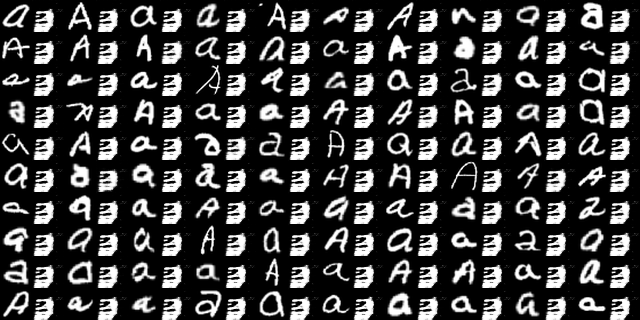
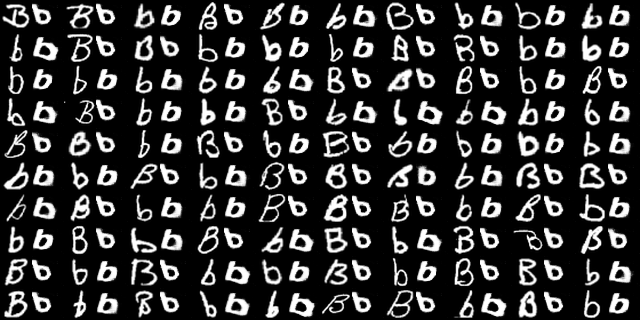
new results

diff --git a/model.py b/model.py
@@ -1,5 +1,5 @@
 import os
-os.environ["CUDA_VISIBLE_DEVICES"]="2,3"
+os.environ["CUDA_VISIBLE_DEVICES"]="0,1"
 import tensorflow as tf
 import tensorflow.contrib.slim as slim
 import numpy as np
@@ -268,8 +268,8 @@ class Solver(object):
             onehot[idx, :, :, cls_idx] = 1
 
         if len(self.cls) > 1:
-            for i, w in zip(self.cls, self.cls_weight):
-                onehot[:,:,:,i][np.where(onehot[:,:,:,i]==1)] = w
+            for idx in xrange(len(self.cls)):
+                onehot[:,:,:,idx][np.where(onehot[:,:,:,idx]==1)] = self.cls_weight[idx]
 
         source_fills = onehot*np.ones([onehot.shape[0], 32, 32, len(self.cls)])
 
@@ -323,7 +323,7 @@ class Solver(object):
                     dl, gl = sess.run([model.d_loss, model.g_loss], feed_dict)
                     print ('Step: [%d/%d] d_loss: [%.6f] g_loss: [%.6f]' % (step + 1, self.train_iter, dl, gl))
 
-                if (step + 1) % self.train_iter == 0:
+                if (step + 1) % (self.train_iter/2) == 0:
                     saver.save(sess, os.path.join(self.model_save_path, 'dtn'), global_step=step + 1)
                     print ('model/dtn-%d saved' % (step + 1))
 
@@ -332,6 +332,14 @@ class Solver(object):
         model.build_model()
 
         source_images, source_labels = self.load_source(self.source_dir, 'train')
+	onehot = np.zeros((source_labels.shape[0], 1, 1, len(self.cls)))
+        for cls_idx in xrange(len(self.cls)):
+            idx = np.where(source_labels == self.cls[cls_idx])
+            onehot[idx, :, :, cls_idx] = 1
+
+        if len(self.cls) > 1:
+            for idx in xrange(len(self.cls)):
+                onehot[:,:,:,idx][np.where(onehot[:,:,:,idx]==1)] = self.cls_weight[idx]
 
         with tf.Session(config=self.config) as sess:
             # load trained parameters
@@ -344,15 +352,8 @@ class Solver(object):
 
                 self.batch_size = 100
                 batch_images = source_images[i * self.batch_size:(i + 1) * self.batch_size]
-                src_labels = source_labels[i * self.batch_size:(i + 1) * self.batch_size]
+                src_labels = onehot[i * self.batch_size:(i + 1) * self.batch_size]
                 
-                onehot = np.eye(len(self.cls))
-                src_labels = onehot[src_labels].reshape((self.batch_size, 1, 1, len(self.cls)))
-                
-                if len(self.cls) > 1:
-                    for ii, w in zip(self.cls, self.cls_weight):
-                        src_labels[:, :, :, ii][np.where(src_labels[:, :, :, ii] == 1)] = w
-
                 if len(self.cls) == 1:
                     src_labels = np.zeros((self.batch_size, 1, 1, 1))
 
@@ -370,16 +371,16 @@ if __name__ == '__main__':
 
     parser = argparse.ArgumentParser()
     parser.add_argument("mode", help="pretrain, train, or eval")
-    parser.mode = 'train'
-    #parser = parser.parse_args()
+    #parser.mode = 'train'
+    parser = parser.parse_args()
     model_save_path= 'model'
     sample_save_path = 'sample'
 
     model = CS_DTN(mode=parser.mode, learning_rate=0.0003, num_class = 2)
-    solver = Solver(model, batch_size=500, pretrain_iter=200, train_iter=100,
+    solver = Solver(model, batch_size=500, pretrain_iter=200, train_iter=2001,
                     source_dir='source', target_dir='target', model_save_path=model_save_path,
-                    sample_save_path=sample_save_path, pretrained_model='model/source_model-200',
-                    cls = [0, 1], cls_weight=[1,1], test_model='model/dtn-100', config = tf.ConfigProto())
+                    sample_save_path=sample_save_path, pretrained_model='model/source_model-2000',
+                    cls = [1, 2], cls_weight=[1,1], test_model='model/dtn-1000', config = tf.ConfigProto())
 
     # create directories if not exist
     if not tf.gfile.Exists(model_save_path):
